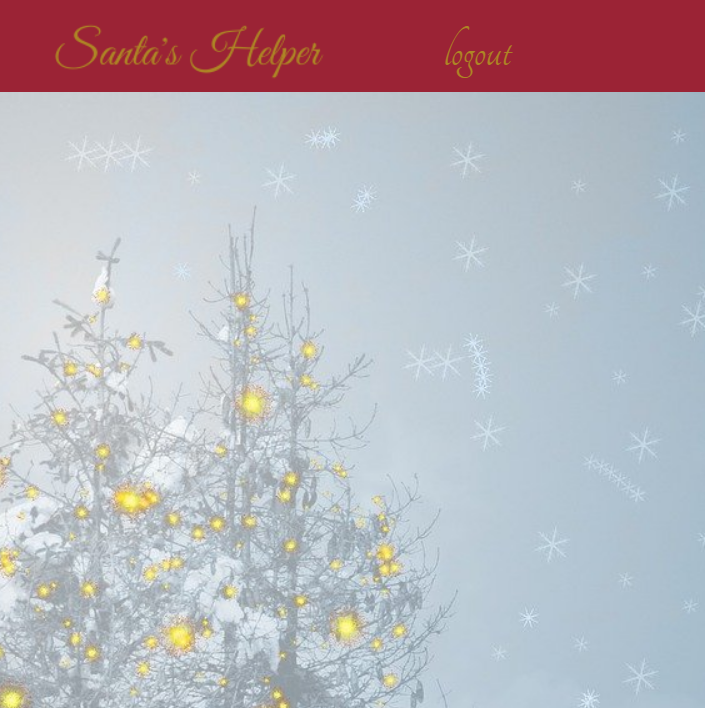
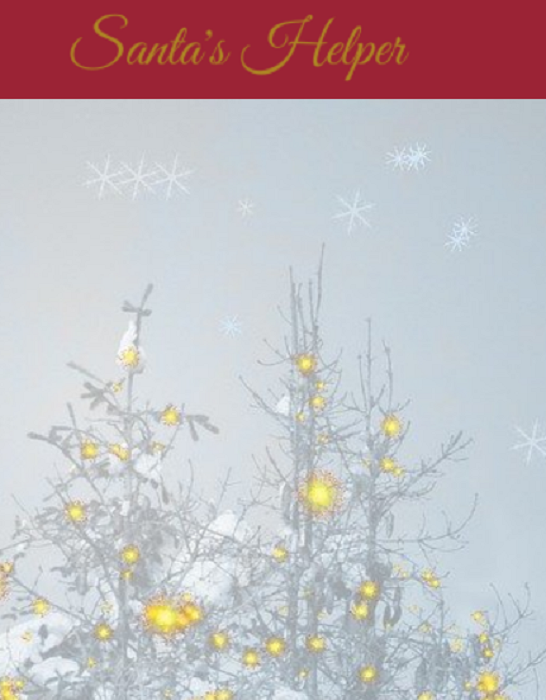
reformat and rearrange about, contact, resume pages

diff --git a/src/components/Contact/index.js b/src/components/Contact/index.js
@@ -1,52 +1,54 @@
 import React, { useState } from "react";
-import { Form, FormGroup, Label, Input, FormText } from 'reactstrap';
-import { validateEmail } from '../../utils/helpers';
+// import { Form, FormGroup, Label, Input, FormText } from 'reactstrap';
+// import { validateEmail } from '../../utils/helpers';
 
 function ContactForm() {
 
-    const [formState, setFormState] = useState({ name:'', email:'', message:'' });
-    const [errorMessage, setErrorMessage] = useState(' ');
-    const { name, email, message } = formState;
+    // const [formState, setFormState] = useState({ name:'', email:'', message:'' });
+    // const [errorMessage, setErrorMessage] = useState(' ');
+    // const { name, email, message } = formState;
 
-    function handleSubmit(e) {
-        e.preventDefault();
-        if (!errorMessage) {
-        console.log(formState);
-        }   
-    };
+    // function handleSubmit(e) {
+    //     e.preventDefault();
+    //     if (!errorMessage) {
+    //     console.log(formState);
+    //     }   
+    // };
 
-    function handleChange(e) {
-        if (e.target.name === 'email') {
-            const isValid = validateEmail(e.target.value);
-            console.log(isValid);
-            if (!isValid) {
-                setErrorMessage('Your email is invalid.');
-            } else {
-                setErrorMessage('');
-                }
-        } else {
-                if (!e.target.value.length) {
-                    setErrorMessage(`${e.target.name} is required.`);
-                } else {
-                    setErrorMessage('');
-                }
-            }
-            if (!errorMessage) {
-                setFormState({...formState, [e.target.name]: e.target.value });
-            }
-        };    
+    // function handleChange(e) {
+    //     if (e.target.name === 'email') {
+    //         const isValid = validateEmail(e.target.value);
+    //         console.log(isValid);
+    //         if (!isValid) {
+    //             setErrorMessage('Your email is invalid.');
+    //         } else {
+    //             setErrorMessage('');
+    //             }
+    //     } else {
+    //             if (!e.target.value.length) {
+    //                 setErrorMessage(`${e.target.name} is required.`);
+    //             } else {
+    //                 setErrorMessage('');
+    //             }
+    //         }
+    //         if (!errorMessage) {
+    //             setFormState({...formState, [e.target.name]: e.target.value });
+            
+        // };    
    
 
     return (
-        <Form style={{ padding: "20px", margin: "auto"}}>
-            <h1 data-testid='h1tag'>CONTACT ME</h1>
+        <div>
+        {/* <Form style={{ padding: "20px", margin: "auto"}}> */}
+            <h1 data-testid='h1tag' style={{ paddingLeft: "20px"}}>CONTACT ME</h1>
                 <div>
-                <a style={{ color: "darkslategrey", fontWeight: "bold", fontSize: "20px" }}href="mailto:joannagrosshans2@gmail.com" target="_blank" rel='noreferrer'>@Joanna Grosshans</a>
+                <a style={{ color: "darkslategrey", fontWeight: "bold", fontSize: "20px", textDecoration: "underline", paddingLeft: "20px"}}href="mailto:joannagrosshans2@gmail.com" target="_blank" rel='noreferrer'>@Joanna Grosshans</a>
                 </div>
-                <div style={{ color: "darkslategrey", fontWeight: "bold", fontSize: "20px" }}>
-                <label for="phone">PHONE: #847.347.7356</label>
+                <div style={{ color: "darkslategrey", fontWeight: "bold", fontSize: "20px", paddingLeft: "20px" }}>
+                <label for="phone">
+                    PHONE: #847.347.7356</label>
                 </div>
-                <form id='contact-form' onSubmit={handleSubmit}>
+                {/* {/* <form id='contact-form' onSubmit={handleSubmit}>
                         <FormGroup style={{ fontWeight: "bold", fontSize: "20px"}}>
                         <Label for='name'>Name:</Label>
                         <Input type='text' name='name' defaultValue={name} onBlur={handleChange}/>
@@ -65,9 +67,11 @@ function ContactForm() {
                             </div>
                         )}
                         <button type='submit' style={{margin:"auto"}}>Submit</button>
-                </form>
-        </Form>
-    );
+                </form> */}
+
+            {/* </Form> */}
+            </div>
+        );
 }
- 
+
 export default ContactForm;

diff --git a/src/components/Resume/index.js b/src/components/Resume/index.js
@@ -1,49 +1,90 @@
-import React from 'react';
-import resume from '../../assets/Resume/resume.pdf'
+import React from "react";
+import resume from "../../assets/Resume/resume.pdf";
+import { FontAwesomeIcon } from "@fortawesome/react-fontawesome";
+import {
+  faHtml5,
+  faCss3,
+  faJs,
+  faReact,
+  faNodeJs,
+} from "@fortawesome/free-brands-svg-icons";
+
 function Resume() {
-  // const [front]
-    return (
-      <section style={{ padding: "20px"}}>
+  return (
+    <div>
+      <section style={{ padding: "20px" }}>
         <h2 id="resume">RESUME</h2>
-        <a href={resume} target='_blank' rel="noreferrer" download style={{ color: "black"}}>Download Joanna Grosshans' Resume</a>
-            <div>
-            <span style={{ fontWeight: "bold"}}>Front-end applications:</span>
-            <ul>
-                HTML
-            </ul>
-            <ul>
-                CSS
-            </ul>
-            <ul>
-                Javascript
-            </ul>
-            <ul>
-                React
-            </ul>
-            </div>
-            <div>
-            <span style={{ fontWeight: "bold"}}> Back-end applications:</span>
-            <ul>
-                Node.js
-            </ul>
-            <ul>
-                SQL
-            </ul>
-            <ul>
-                Express.js
-            </ul>
-            <ul>
-                Sequelize
-            </ul>
-            <ul>
-                MongoDB
-            </ul>
-            <ul>
-                Mongoose
-            </ul>
-            </div>
+        <div style={{ margin: "10px"}}>
+          <a
+            href={resume}
+            target="_blank"
+            rel="noreferrer"
+            download
+            style={{ color: "black", textDecoration: "underline" }}
+          >
+            Download Joanna Grosshans' Resume
+          </a>
+        </div>
+        <div style={{display: "flex", padding: "50px, 0, 0, 0" }}>
+          <span style={{ fontWeight: "bold", fontSize: "20px" }}>Front-end applications:</span>
+          <ul>
+            {/* <a style={{ color: "darkslategrey" }}>
+            <FontAwesomeIcon icon={faHtml5} size="4x" />
+          </a> */}
+            HTML
+          </ul>
+          <ul>
+            {/* { <a style={{ color: "darkslategrey" }}>
+            <FontAwesomeIcon icon={faCss3} size="4x" />
+          </a> */}
+            CSS{" "}
+          </ul>
+          <ul>
+            {/* {/* <a style={{ color: "darkslategrey" }}>
+            <FontAwesomeIcon icon={faJs} size="4x" />
+          </a> */}
+            Javascript
+          </ul>
+          <ul>
+            {/* {/* <a style={{ color: "darkslategrey" }}>
+            <FontAwesomeIcon icon={faReact} size="4x" />
+          </a> */}
+            React
+          </ul>
+        </div>
+        <div style={{ display: "flex" }}>
+          <span style={{ fontWeight: "bold", fontSize: "20px"}}> Back-end applications:</span>
+          <ul>
+            {/* <a style={{ color: "darkslategrey" }}>
+            <FontAwesomeIcon icon={faNodeJs} size="4x" />
+          </a> */}
+            Node.js
+          </ul>
+          <ul>
+            {/* <a style={{ color: "darkslategrey" }}>
+            <FontAwesomeIcon icon={faReact} size="4x" />
+          </a> */}
+            SQL
+          </ul>
+          <ul>
+            {/* <a style={{ color: "darkslategrey" }}>
+            <FontAwesomeIcon icon={faReact} size="4x" />
+          </a> */}
+            Express.js
+          </ul>
+          <ul>Sequelize</ul>
+          <ul>MongoDB</ul>
+          <ul>Mongoose</ul>
+        </div>
+        <div style={{ display: "flex" }}>
+          <p style={{ fontWeight: "bold", fontSize: "20px" }}>Tools:</p>
+          <ul>GitHub</ul>
+          <ul>Visual Studio Code</ul>
+          <ul>Heroku</ul>
+        </div>
       </section>
-    );
-  }
-  
-  export default Resume;
+    </div>
+  );
+}
+
+export default Resume;

diff --git a/src/components/About/index.js b/src/components/About/index.js
@@ -5,17 +5,18 @@ function About() {
     return (
       <section style={{ padding: "20px"}}>
         <h1 style={{margin: "auto"}} id="about">ABOUT JOANNA</h1>
-        <div style={{display: "flex", padding: "50px"}}>
+        <div style={{display: "inline-block", padding: "20px"}}>
             <div>
                 <img
-                style= {{width: "85%"}}
+                style= {{width: "45%"}}
                 src={require(`../../assets/About/0.jpg`).default} rounded="true"
                 alt="Joanna Grosshans"
                 key="Joanna Grosshans"
                 />
             </div>
-            <div style={{ fontWeight: "bold", fontSize: "22px"}}>
-            Coming from years of performing, teaching, and working on my skills as a professional violinist, my focus has shifted from creating music with other people to creating web applications. I am interested in working with others to build useful and meaningful projects while enjoying the problem solving and creative side of web development.
+            <div style={{ fontWeight: "bold", fontSize: "20px", margin: "150px, 150px, 150px, 150px"}}>
+            Welcome! Coming from years of performing, teaching, and working on my skills as a professional violinist, my focus has shifted from creating music with other people to creating web applications. I am interested in working with others to build useful and meaningful projects while enjoying the problem solving and creative side of web development. I enjoy working with and creating databases, and using that data, as well as constantly learning as a path to write quality code. I am excited to utilize my skills as a problem solver and effective time management as part of a quality-driven team in a fast-paced environment. I will earn a certificate from University of Wisconsin in Full Stack Web Developer in February 2021.
+            In my free time I can be found spending time with my family, and baking up something sweet! Have a look around my site, and contact me for any additional information!
             </div>
           </div>
       </section>

diff --git a/src/components/Portfolio/index.js b/src/components/Portfolio/index.js
@@ -1,6 +1,8 @@
 import React, { useState } from 'react';
 import projects from '../../projects.json'
 import ProjectCard from '../ProjectCard';
+import "react-responsive-carousel/lib/styles/carousel.min.css"; // requires a loader
+import { Carousel } from 'react-responsive-carousel';
 
 const Portfolio = ()  => {
    
@@ -11,13 +13,16 @@ const Portfolio = ()  => {
             <div>
                 <h2>PORTFOLIO</h2>
             </div>
+            
             <div>
-                <div className="flex-row">
+            {/* className="flex-row" */}
+                <div style={{ }}>
+                    {/* <Carousel showArrows={true}  style={{margin: "auto", width: "30%", height: "20%" }}> */}
                    {projects.map((projects, i) => (
                        <ProjectCard
                         image={require(`../../assets/Portfolio/${i}.png`).default}
                         alt={projects.name}
-                        className='img-thumbnail mx-1'
+                        className='img-thumbnail mx-1 flex-row'
                         key={projects.name}
                         name={projects.name}
                         description={projects.description}
@@ -27,9 +32,12 @@ const Portfolio = ()  => {
                         deployed={projects.deployed}
                         /> 
                    ))}
+                   {/* </Carousel> */}
                 </div>
-         </div>
-         </div>
+                
+            </div>
+         
+        </div>
     );
 };
 

diff --git a/src/components/ProjectCard/index.js b/src/components/ProjectCard/index.js
@@ -1,7 +1,7 @@
 import React from 'react';
 import {
     Card, CardImg, CardText, CardBody,
-    CardTitle, CardSubtitle
+    CardTitle, CardSubtitle, CardGroup
   } from 'reactstrap';
 import tally from '../../assets/Portfolio/0.png';
 import projects from '../../../src/projects.json';
@@ -11,8 +11,9 @@ import Portfolio from '../Portfolio';
 function ProjectCard(props) {
     return (
         <div>
-        <Card style={{padding: "10px", margin: "15px", width: "35%"}}>
-          <CardImg top width="100%"
+        <CardGroup style={{ display: "flex", padding: "20px"}}>
+        <Card style={{margin: "auto", background: "none", display: "flex", maxWidth: "50%", padding: "20px"}}>
+          <CardImg class = "img-square-wrapper" style={{ width: "100%", height: "20%"}}
             src={props.image}
             alt={props.name} 
             />
@@ -27,6 +28,7 @@ function ProjectCard(props) {
             </CardText>
           </CardBody>
         </Card>
+        </CardGroup>
       </div>
      
     )

diff --git a/src/App.js b/src/App.js
@@ -6,7 +6,7 @@ import { MarkGithubIcon } from '@primer/octicons-react';
 import  {FontAwesomeIcon } from '@fortawesome/react-fontawesome';
 import { faLinkedin } from '@fortawesome/free-brands-svg-icons';
 import { faStackOverflow } from '@fortawesome/free-brands-svg-icons';
-import background from "./assets/Background/blue.jpeg"
+import background from "./assets/Background/white.png"
 import styled, { keyframes } from 'styled-components';
 import { bounce } from 'react-animations';
 

diff --git a/src/components/NavTabs/index.js b/src/components/NavTabs/index.js
@@ -3,7 +3,7 @@ import React from 'react';
 function NavTabs(props) {
   const tabs = ['About', 'Contact', 'Resume', 'Portfolio'];
   return (
-    <ul className="nav nav-tabs">
+    <ul className="nav nav-tabs justify-content-center">
       {tabs.map(tab => (
         <li className="nav-item" key={tab}>
           <a   style={{ color: "black", fontSize: "20px"}}
